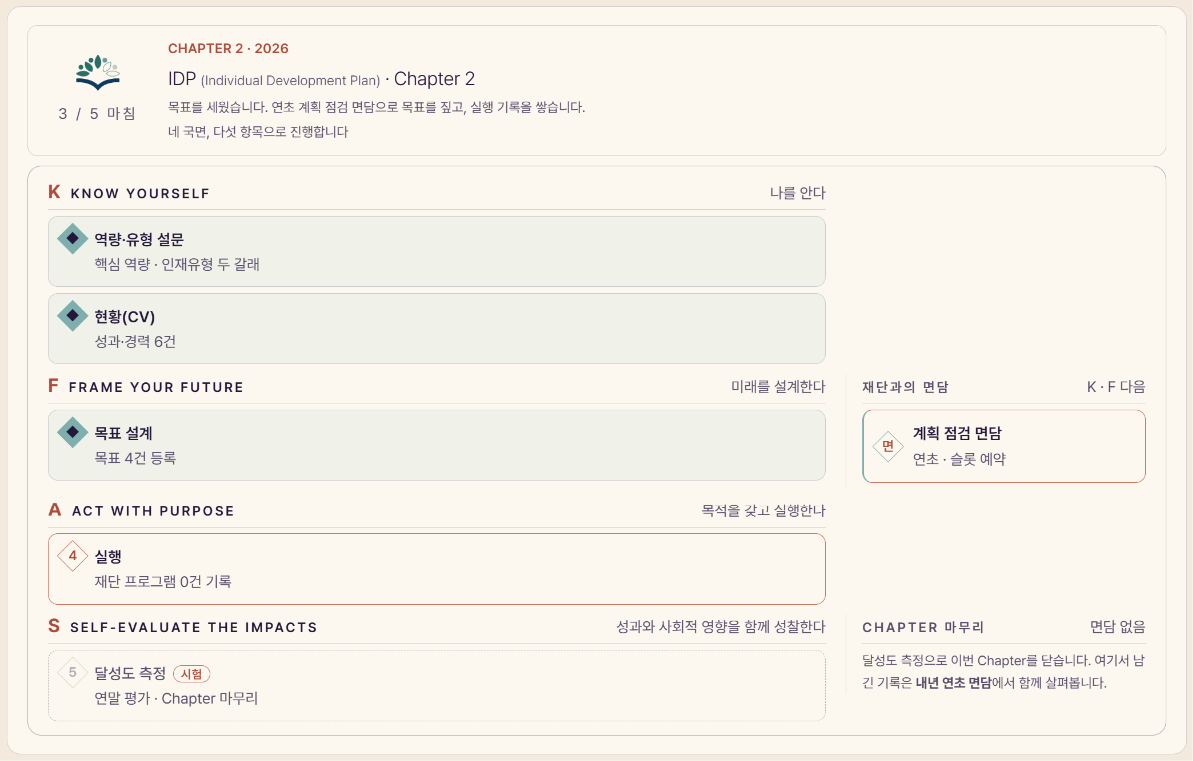
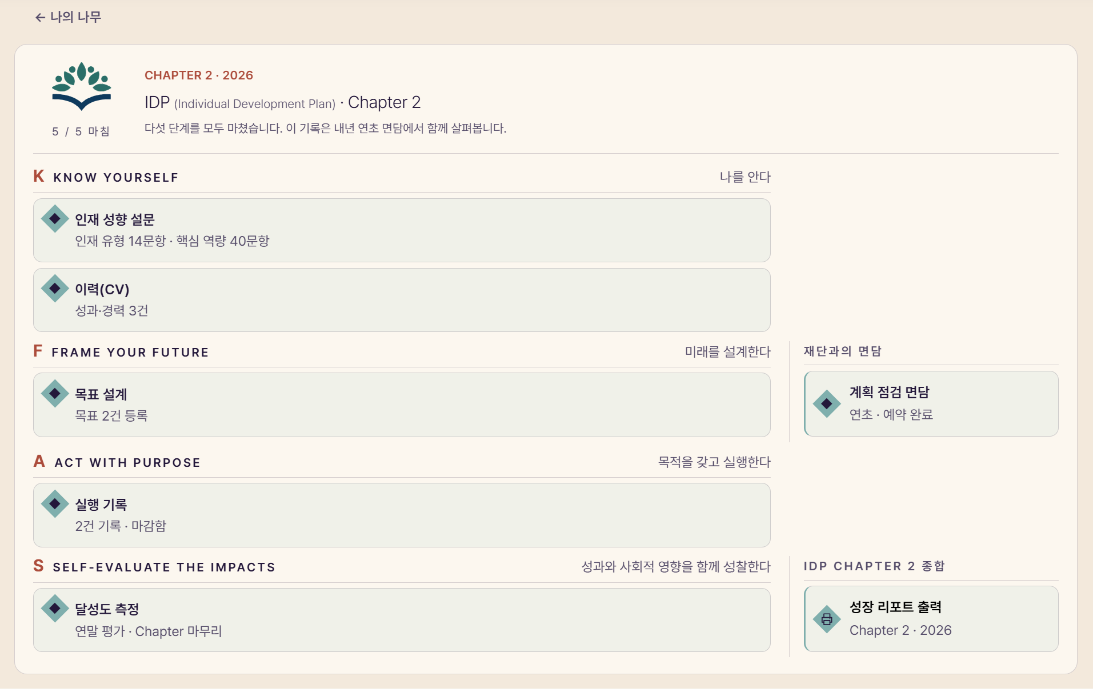
Replace My Tree and IDP Chapter 2 screenshots with current platform screens

diff --git a/index.html b/index.html
@@ -3408,8 +3408,8 @@ sheet.append_row(data)</code></div>
 
     <div class="ann">
       <a class="shot-l" draggable="false" href="photos/tlab-mytree-rings.png" target="_blank" rel="noopener noreferrer">
-        <img class="shot" draggable="false" src="photos/tlab-mytree-rings.png" width="964" height="638" loading="lazy"
-          alt="나의 나무(IDP) 화면입니다. 왼쪽 책장에는 나이테 모양의 동심원이 그려져 있고 올해 Chapter 2가 붉은 고리로 칠해져 있습니다. 오른쪽 차례에는 Chapter 2 아래 역량·유형 설문, 현황(CV), 목표 설계, 실행, 달성도 측정 다섯 항목이 놓여 있고 마친 항목에는 표시가 붙어 있습니다. 위에는 한 해가 한 Chapter이고 나이테가 한 겹씩 늘어나 7년째까지 이어진다는 안내가 있습니다.">
+        <img class="shot" draggable="false" src="photos/tlab-mytree-rings.png" width="966" height="673" loading="lazy"
+          alt="나의 나무(IDP) 화면입니다. 왼쪽 책장에는 나이테 모양의 동심원이 그려져 있고 올해 Chapter 2가 붉은 고리로 칠해져 있습니다. 오른쪽 차례에는 Chapter 2 아래 인재 성향 설문, 이력(CV), 목표 설계, 실행 기록, 달성도 측정 다섯 항목이 놓여 있고 다섯 항목을 모두 마쳤다고 표시되어 있습니다. 아래에는 성장 리포트 출력 버튼이 있고, 위에는 Chapter를 마칠 때마다 나이테가 한 겹씩 늘어나 최대 7년간의 기록을 쌓을 수 있다는 안내가 있습니다.">
       </a>
       <div class="ann-cap">한 해가 하나의 Chapter가 되고 Chapter를 마칠 때마다 나무의 나이테가 한 겹씩 늘어납니다. 책을 왼쪽으로 넘기면 지난해 Chapter를 펼쳐 볼 수 있습니다.</div>
     </div>
@@ -3443,8 +3443,8 @@ sheet.append_row(data)</code></div>
 
     <div class="ann">
       <a class="shot-l" draggable="false" href="photos/tlab-idp-chapter.png" target="_blank" rel="noopener noreferrer">
-        <img class="shot" draggable="false" src="photos/tlab-idp-chapter.png" width="1193" height="761" loading="lazy"
-          alt="IDP Chapter 화면입니다. K Know Yourself 아래 역량·유형 설문과 현황(CV), F Frame Your Future 아래 목표 설계, A Act with Purpose 아래 실행, S Self-Evaluate the Impacts 아래 달성도 측정이 차례로 놓여 있고 마친 항목 셋에 표시가 붙어 있습니다. 오른쪽에는 재단과의 면담이 곁가지로 붙어 연초 슬롯을 예약하게 되어 있고 아래에 달성도 측정으로 Chapter를 닫고 남긴 기록은 내년 연초 면담에서 함께 살펴본다는 안내가 있습니다.">
+        <img class="shot" draggable="false" src="photos/tlab-idp-chapter.png" width="1093" height="689" loading="lazy"
+          alt="IDP Chapter 화면입니다. K Know Yourself 아래 인재 성향 설문과 이력(CV), F Frame Your Future 아래 목표 설계, A Act with Purpose 아래 실행 기록, S Self-Evaluate the Impacts 아래 달성도 측정이 차례로 놓여 있고 다섯 항목 모두 마친 표시가 붙어 있습니다. 오른쪽에는 재단과의 계획 점검 면담이 연초 예약 완료로 붙어 있고 아래에는 Chapter 2 종합 성장 리포트 출력이 있습니다.">
       </a>
       <div class="ann-cap">네 국면 아래 다섯 항목이 차례로 열립니다. 목표 설계를 완료하면 재단과의 면담을 통해 계획을 점검하고 장학생에게 필요한 지원이 무엇인지 함께 파악합니다.</div>
     </div>
